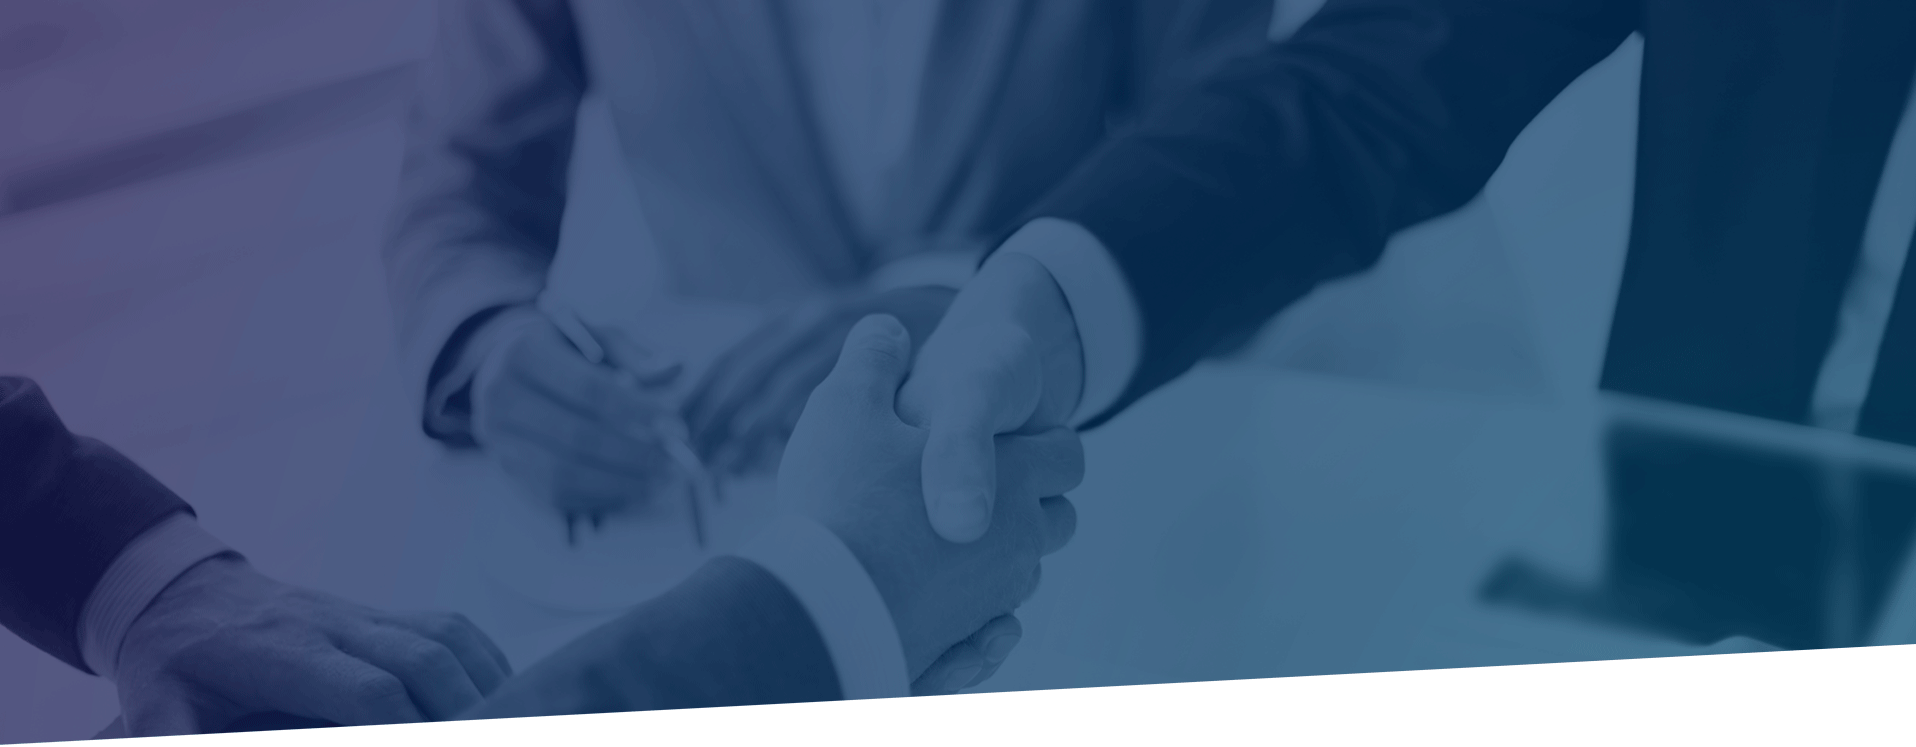
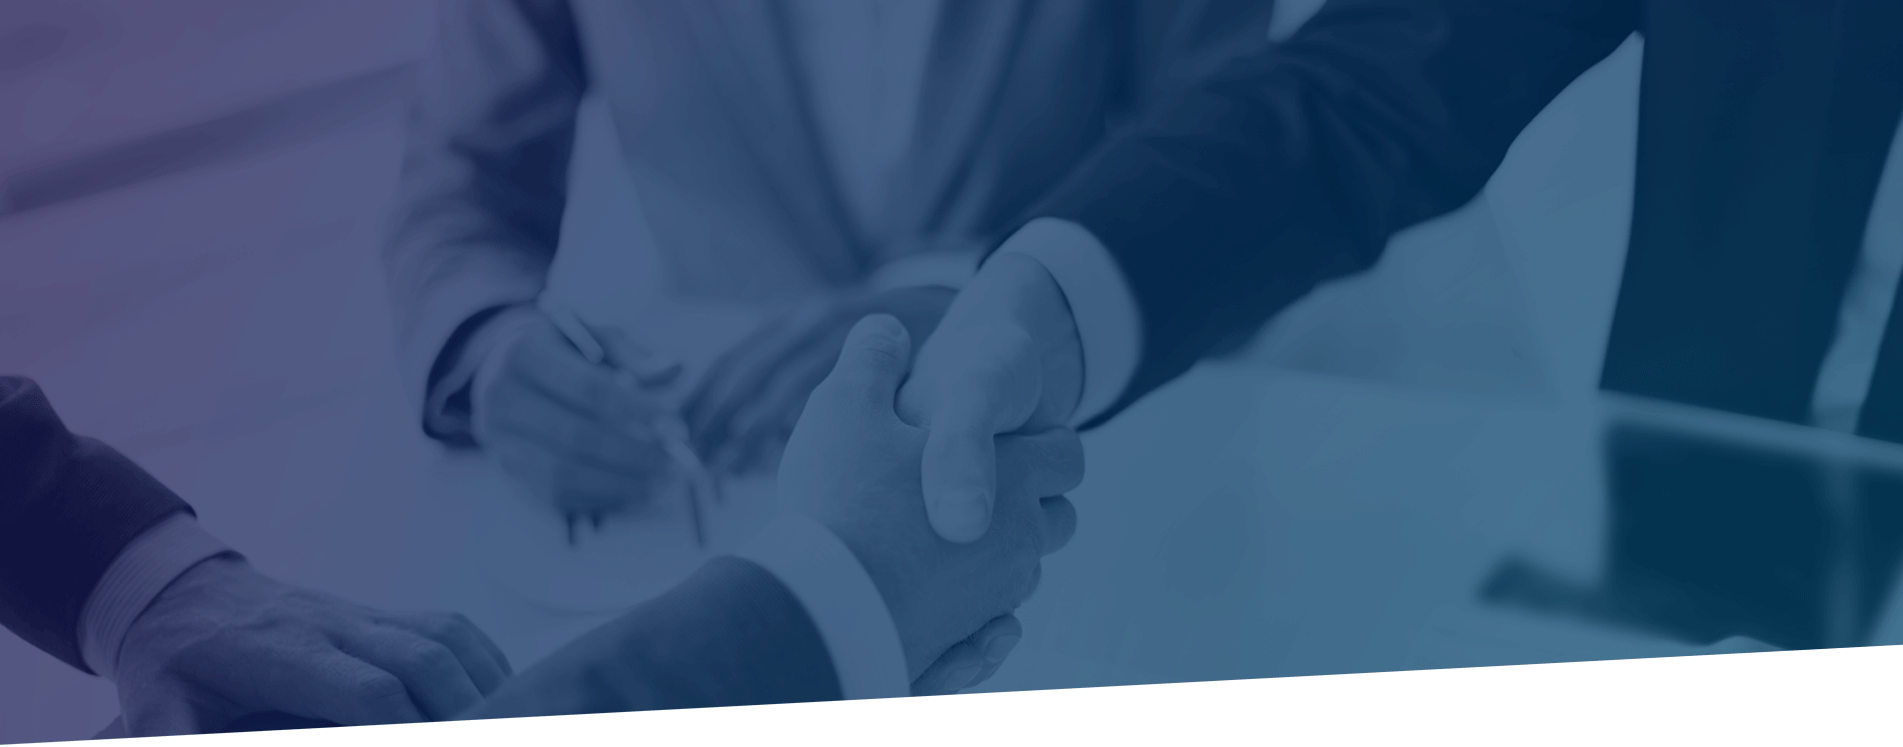
add

diff --git a/css/main.css b/css/main.css
@@ -5,7 +5,7 @@ body {
     position: relative;
     font-family: 'Exo2', sans-serif;
     overflow-x: hidden;
-    max-width: 100%;
+    max-width: 101%;
     min-width: 320px;
     height: 100%;
 }
@@ -555,13 +555,13 @@ a.cons-form__button {
     position: relative;
 }
 .stories:before {
-    content: "";
+        content: "";
     z-index: -1;
     position: absolute;
-    width: 103%;
+    width: 106%;
     height: 44%;
     top: 40%;
-    left: -1%;
+    left: -3%;
     transform: rotate(-3deg);
     background: #0c71b9;
     background: linear-gradient(to right, #0c75bb 46%, #0c68b4, #1e54a7 80%);
@@ -583,7 +583,7 @@ a.cons-form__button {
     /*justify-content: space-between;*/
     padding: 30px 20px;
        margin: 35px 10px 35px;
-    box-shadow: 3px -3px 51.3px -13.3px rgba(8, 74, 135, 0.66);
+    box-shadow: 3px -3px 31.3px -13.3px rgba(8, 74, 135, 0.66);
 }
 .stories__slide:before {
     content: "“";
@@ -1281,7 +1281,7 @@ a.step-form__phone {
     content: "";
     position: absolute;
     z-index: -1;
-    height: 197px;
+    height: 207px;
     width: 102%;
     transform: rotate(3deg);
     bottom: -167px;
@@ -1311,10 +1311,10 @@ a.step-form__phone {
     content: "";
     z-index: -1;
     position: absolute;
-    width: 102%;
+    width: 104%;
     height: 44%;
     top: -14%;
-    left: -1%;
+    left: -2%;
     transform: rotate(-3deg);
     background: #0c71b9;
     background: linear-gradient(to right, #0c75bb 46%, #0c68b4, #1e54a7 80%);
@@ -1349,7 +1349,7 @@ a.step-form__phone {
     padding: 25px;
     border-radius: 10px;
     background-color: rgb(255, 255, 255);
-    box-shadow: 0px 0px 56.3px -6.3px rgba(8, 74, 135, 0.4);
+    box-shadow: 0px 0px 31.3px -6.3px rgba(8, 74, 135, 0.4);
     margin: 0 10px;
     max-width: 95%; /*maximum width for all slides*/
     margin: 0 auto 10px; /*centering images in the container*/

diff --git a/js/common.js b/js/common.js
@@ -126,12 +126,14 @@ new WOW().init();
 	if ($(window).width() > 992)   {
 		$(window).scroll(function () {
 			var scrolled = $(window).scrollTop();
-			if (scrolled >= 20) {
+			if (scrolled >= 5) {
 				$('header').addClass('scroll');
+				// $('header.scroll .logo-header__title, header.scroll .our-contacts__mail').slideUp();
 			}
 			else {
 				if (scrolled < 180) {
 					$('header').removeClass('scroll');
+					// $('header.scroll .logo-header__title, header.scroll .our-contacts__mail').slideUp();
 				}
 			}
 		});

diff --git a/css/media.css b/css/media.css
@@ -209,9 +209,9 @@
 		margin: 0 30px 0 40px;
 	}
 	/*Section-Lawyers*/
-	.lawyers:before {
+	/*.lawyers:before {
 		width: 104%;
-	}
+	}*/
 	.lawyers__img-wrap {
 	    width: 100%;
 	}
@@ -596,7 +596,8 @@
 	}
 	.lawyers:before {
 		top: 11%;
-    	left: -2%;
+    	left: -3%;
+    	width: 106%;
 	}
 	/*Section-Question*/
 	.question {
@@ -631,6 +632,15 @@
 	}
 	.rates-item {
 	    width: 82%;
+	}
+	/*Section-Tarif*/
+	.tarif,
+	.contacts,
+	.map {
+		top: -400px;
+	}
+	.footer {
+		top: -48px;
 	}
 
 
